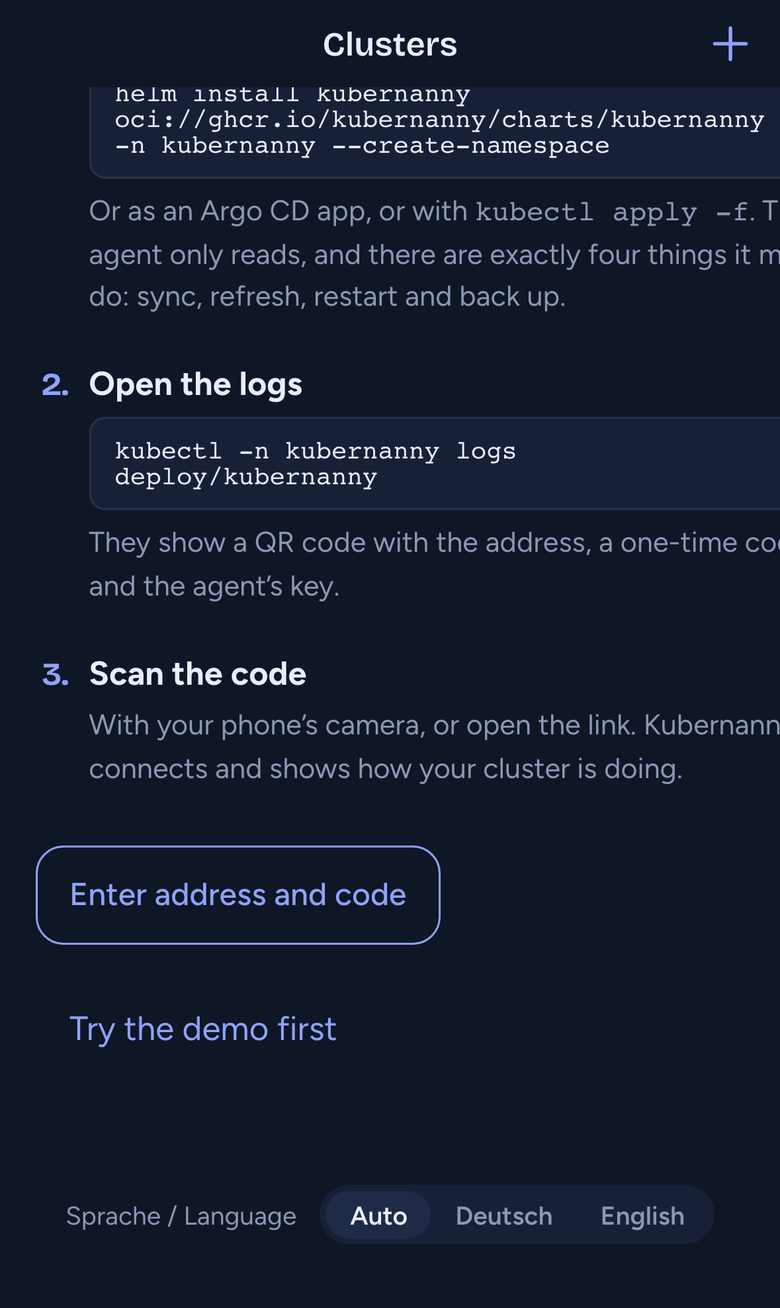
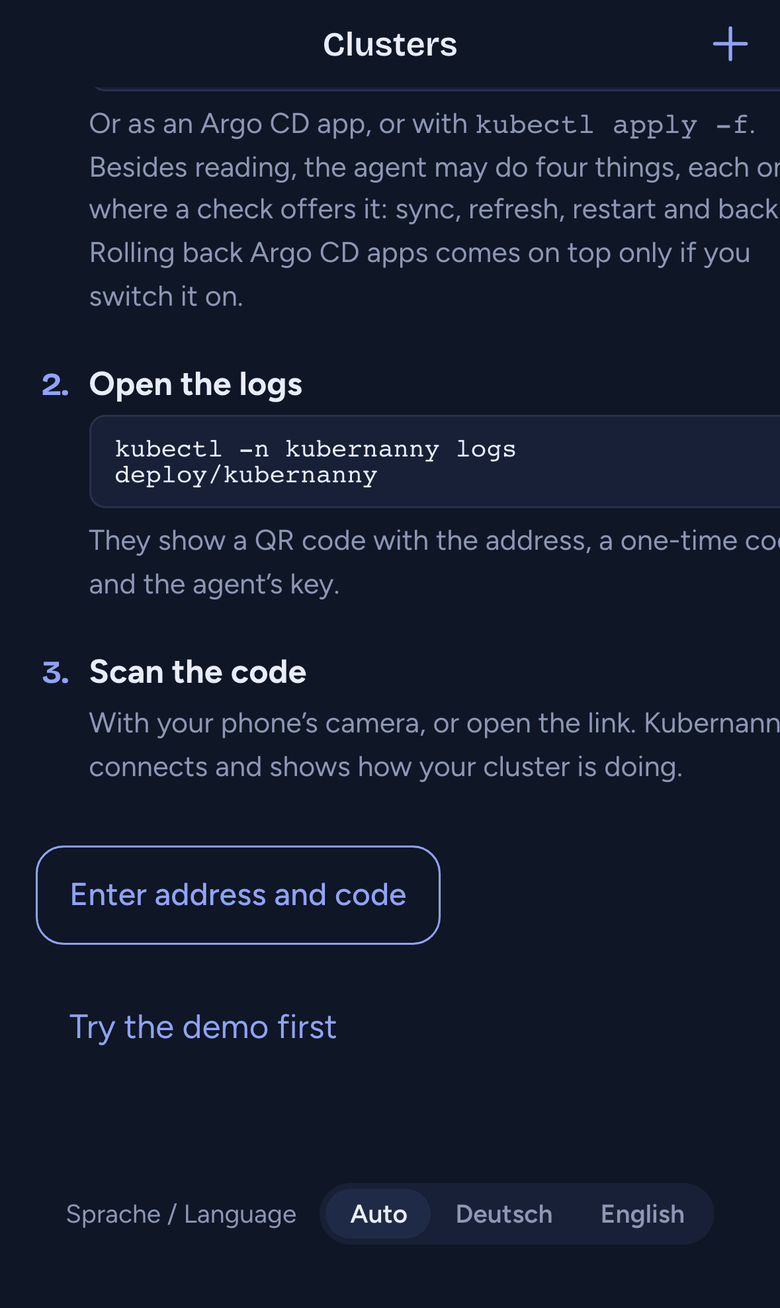
fix(app): name the opt-in Argo CD rollback next to the four actions
The install note said the agent may do exactly four things. Rollback exists as a fifth, off by default.

diff --git a/app/src/app/i18n/en.ts b/app/src/app/i18n/en.ts
@@ -44,7 +44,7 @@ export const en: Dictionary = {
       connectLocal: 'Connect to this agent',
       installTitle: 'Install the agent',
       installNote:
-        'Or as an Argo CD app, or with <code>kubectl apply -f</code>. The agent only reads, and there are exactly four things it may do: sync, refresh, restart and back up.',
+        'Or as an Argo CD app, or with <code>kubectl apply -f</code>. Besides reading, the agent may do four things, each only where a check offers it: sync, refresh, restart and back up. Rolling back Argo CD apps comes on top only if you switch it on.',
       logsTitle: 'Open the logs',
       logsNote: 'They show a QR code with the address, a one-time code and the agent’s key.',
       scanTitle: 'Scan the code',

diff --git a/app/src/app/i18n/de.ts b/app/src/app/i18n/de.ts
@@ -48,7 +48,7 @@ export const de = {
       connectLocal: 'Mit diesem Agent verbinden',
       installTitle: 'Agent installieren',
       installNote:
-        'Oder als Argo-CD-App, oder mit <code>kubectl apply -f</code>. Der Agent liest nur und darf genau vier Dinge tun: Sync, Refresh, Neustart, Backup.',
+        'Oder als Argo-CD-App, oder mit <code>kubectl apply -f</code>. Außer Lesen darf der Agent vier Dinge tun, jeweils nur, wo eine Prüfung sie anbietet: Sync, Refresh, Neustart, Backup. Rollbacks von Argo-CD-Apps kommen nur dazu, wenn du sie einschaltest.',
       logsTitle: 'Logs öffnen',
       logsNote: 'Dort steht ein QR-Code mit Adresse, Einmal-Code und dem Schlüssel des Agents.',
       scanTitle: 'Code scannen',
